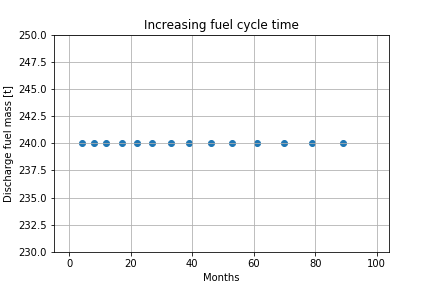
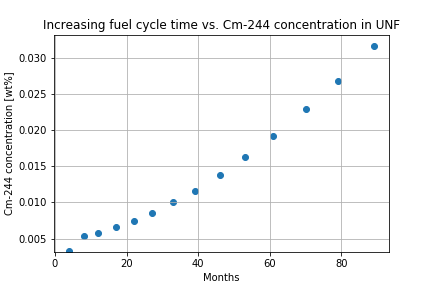
cyclus implementation update

diff --git a/docs/result.tex b/docs/result.tex
@@ -189,7 +189,6 @@ recipe method.
 Unsurprisingly, the error increases as the actual burnup and enrichments
 diverge from the average.
 
-%! Regenerate plots
 \begin{figure}
     \centering
     \includegraphics[width=\textwidth]{assem_dh.png}
@@ -364,7 +363,6 @@ cycle time and refueling time for the reactor model, as shown
 in figure \ref{fig:cyclus_time}.
 
 
-%! Check this - shouldn't hte pu239 decrease
 %! it is plutonium in the fuel total
 \begin{figure}
     \centering
@@ -383,11 +381,11 @@ in figure \ref{fig:cyclus_time}.
 \end{figure}
 
 
-%! Not so interesting plot
 \begin{figure}
     \centering
     \includegraphics[width=\textwidth]{./cyclus_imp/cycle_time.png}
-    \caption{Discharge and refueling cycles can be defined as an equation of time in this reactor archetype.}
+    \caption{Discharge and refueling cycles can be defined as an equation of time in this reactor archetype. Discharge burnup is scaled to take into account longer fuel residence time, and leads to increase in discharge fuel \textsuperscript{244}Cm composition.
+    }
     \label{fig:cyclus_time}
 \end{figure}
 
